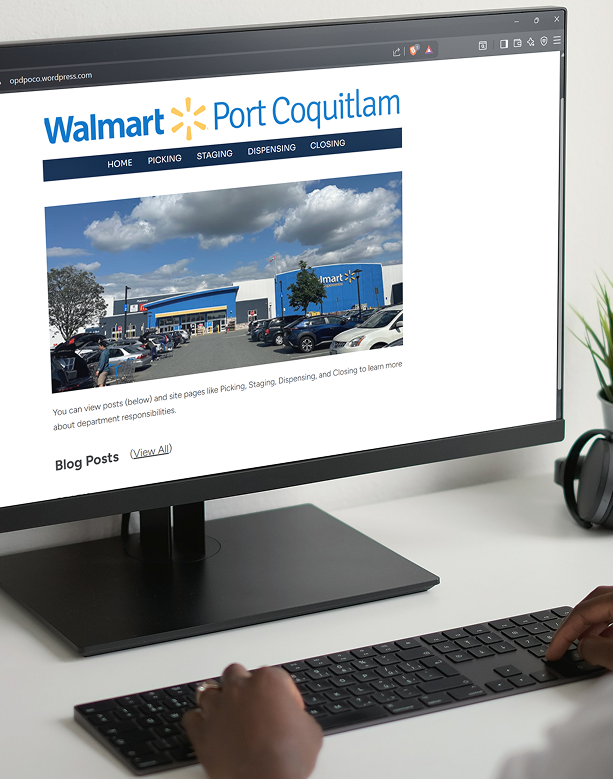
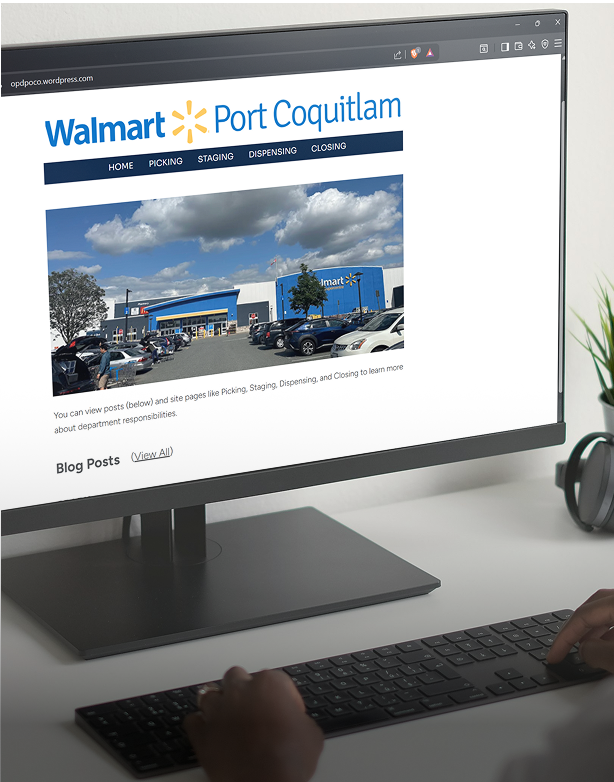
fixed walmart mockup image

diff --git a/main/feat-proj.html b/main/feat-proj.html
@@ -200,20 +200,20 @@
 
             <div class="item-collapsed item5">
                 <div class="item-title5">
-                    <img src="https://ariellebeltran.github.io/portfolio/main/images/visanalyst-mockup.png"
-                        alt="A screenshot of spotify articles. Visual Analyst Portfolio – Arielle Beltran" width="100%"
+                    <img src="https://ariellebeltran.github.io/portfolio/main/images/walmart-mockup.png"
+                        alt="A screenshot of a Personal Walmart Wordpress Site. Instructional Designer Portfolio – Arielle Beltran" width="100%"
                         height="100%">
                 </div>
 
                 <div class="item-title5b">
-                    <h1 id="role-title1">Spotify</h1>
-                    <h2 id="role-title2">Visual Analyst</h2>
+                    <h1 id="role-title1">Walmart</h1>
+                    <h2 id="role-title2">Instructional Designer</h2>
                 </div>
             </div>
 
             <div class="item-expanded">
 
-                <h2 class="item-role inside-header">Visual Analyst</h2>
+                <h2 class="item-role inside-header">Instructional Designer</h2>
 
                 <!-- <div class="item-role inside1">
                     <img src="https://ariellebeltran.github.io/portfolio/main/images/siteinspo.png"

diff --git a/main/style.css b/main/style.css
@@ -997,7 +997,7 @@ img#gif-col4 {
 }
 
 .item-role.item5.expanded {
-    background-color: #BA53E8;
+    background-color: #0071CE;
 }
 
 /* other projects ================================================================== */
